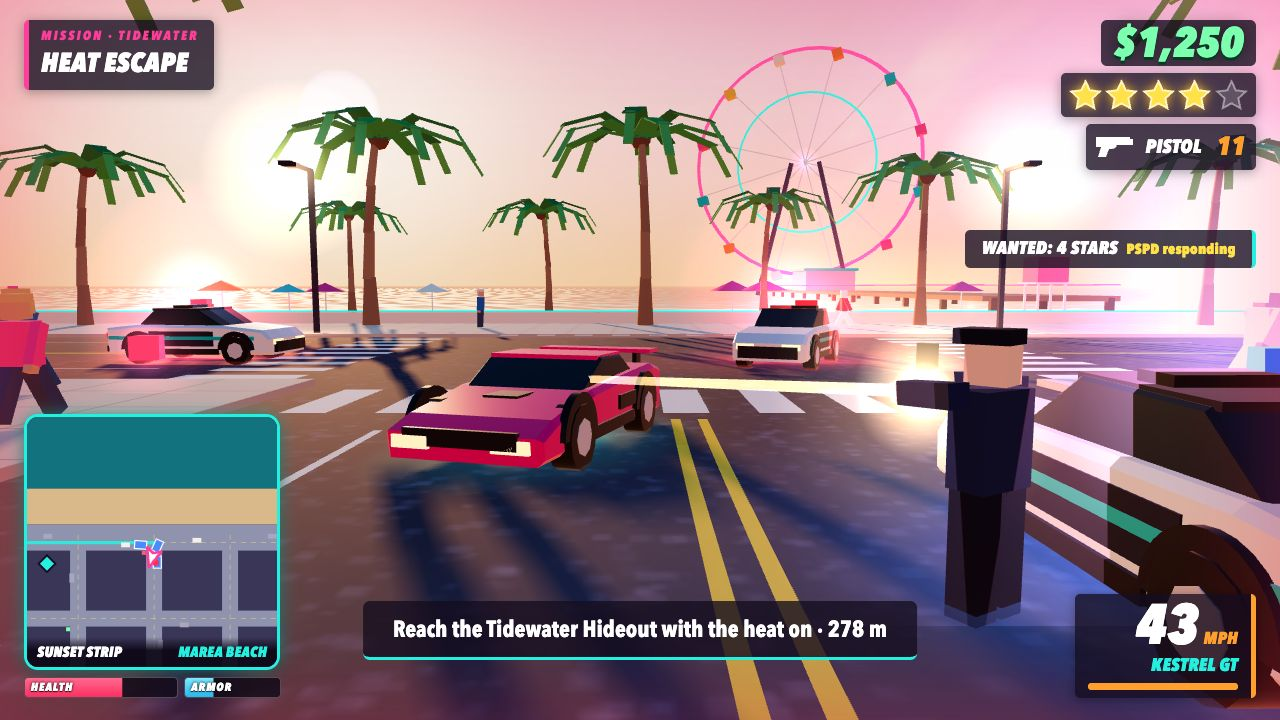
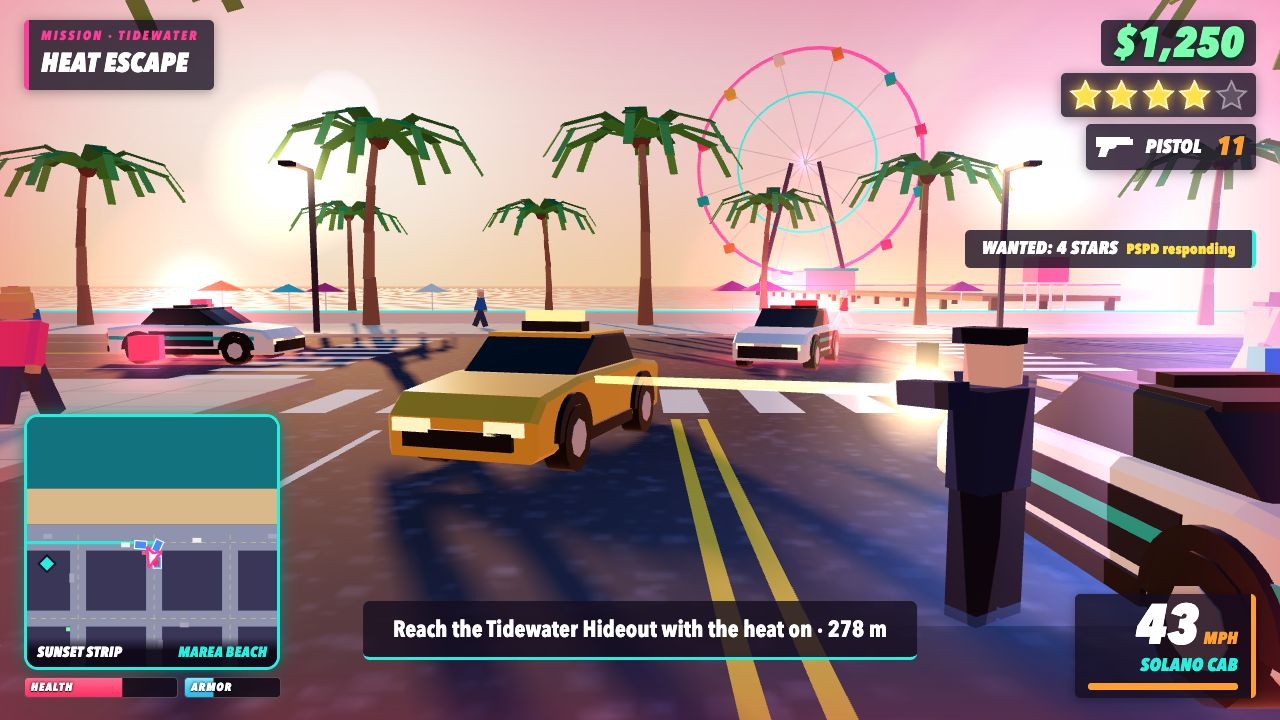
Tile round: Solano Cab getaway in Heat Escape wanted shot; payout total beside mission headline + first-clear unlock message; capture saves isolated to session storage (Codex gpt-6.2-sol via codex-teacher, recording 01a1fbb5)

diff --git a/game/src/hud.js b/game/src/hud.js
@@ -75,7 +75,11 @@ export function initHud() {
     <div class="hud-prompt hud-panel" data-el="prompt"></div>
     <div class="hud-objective" data-el="objective"></div>
     <div class="hud-arrest hud-panel" data-el="arrest">Hands up! PSPD arrest<i data-el="arrestBar"></i></div>
-    <div class="hud-banner" data-el="banner"><div class="hud-banner-title" data-el="bannerTitle"></div><div class="hud-banner-sub" data-el="bannerSub"></div></div>
+    <div class="hud-banner" data-el="banner">
+      <div class="hud-banner-title"><span data-el="bannerTitle"></span><span class="hud-banner-payout" data-el="bannerPayout" hidden></span></div>
+      <div class="hud-banner-unlock" data-el="bannerUnlock" hidden></div>
+      <div class="hud-banner-sub" data-el="bannerSub"></div>
+    </div>
     <div class="hud-crosshair" data-el="crosshair"></div>
     <div class="hud-state" data-el="state"><div class="hud-state-title" data-el="stateTitle"></div><div class="hud-state-sub" data-el="stateSub"></div></div>`;
   root.querySelectorAll('[data-el]').forEach((node) => { el[node.dataset.el] = node; });
@@ -87,7 +91,14 @@ export function initHud() {
     if (kind === 'mission' || kind === 'success' || kind === 'fail') showBanner(title, sub, kind);
     else pushFeedLine(title, sub);
   });
-  on('missionComplete', ({ title, reward }) => pushFeedLine(`+${formatMoney(reward)}`, `${title} paid`));
+  on('missionComplete', ({ title, reward, bonus, unlockedTitle }) => {
+    const base = `${title} +${formatMoney(reward - bonus)}`;
+    const breakdown = bonus ? `${base} · clean delivery +${formatMoney(bonus)}` : base;
+    showBanner('MISSION COMPLETE', breakdown, 'success', 4.5, {
+      payout: `+${formatMoney(reward)}`,
+      unlock: unlockedTitle ? `${unlockedTitle} unlocked` : '',
+    });
+  });
   on('wantedChanged', ({ level, previous }) => {
     if (level > previous) pushFeedLine(`Wanted: ${level} star${level > 1 ? 's' : ''}`, 'PSPD responding');
     else if (level === 0) pushFeedLine('You lost the heat', '');
@@ -101,10 +112,15 @@ export function setHudVisible(visible) {
 }
 
 /** A large centre banner: mission start, MISSION COMPLETE, MISSION FAILED. seconds = 0 keeps it up. */
-export function showBanner(title, sub = '', kind = 'mission', seconds = 4.5) {
+export function showBanner(title, sub = '', kind = 'mission', seconds = 4.5, { payout = '', unlock = '' } = {}) {
   el.banner.className = `hud-banner ${kind}`;
+  el.banner.classList.toggle('payout', Boolean(payout));
   el.bannerTitle.textContent = title;
   el.bannerSub.textContent = sub;
+  setText('bannerPayout', payout);
+  setText('bannerUnlock', unlock);
+  setShown('bannerPayout', Boolean(payout));
+  setShown('bannerUnlock', Boolean(unlock));
   shown['v:banner'] = true;
   el.banner.hidden = false;
   bannerTimer = seconds > 0 ? seconds : Infinity;

diff --git a/game/src/shots.js b/game/src/shots.js
@@ -5,7 +5,7 @@
 // on foot firing on the getaway at 4 stars), mission (First Score paid out at Benny's Garage), plus
 // showroom, a development view. Gunfire, prompts, banners and feed lines in a frame come from the game itself.
 import { world, setWanted, groundHeight } from './world.js';
-import { spawnVehicle, placeVehicle } from './vehicles.js';
+import { spawnVehicle, placeVehicle, VEHICLE_SPECS } from './vehicles.js';
 import { populateTrafficAround, spawnTrafficCarAt } from './traffic.js';
 import { populatePedestriansAround, spawnPedestrian } from './pedestrians.js';
 import { placePlayerOnFoot, enterVehicle } from './player.js';
@@ -151,9 +151,8 @@ function stageDrive(simulateStep) {
 
 /**
  * 3 WANTED: four stars on the Heat Escape job, on Sunset Strip by the beachfront junction. A cruiser pulls
- * up behind Mara on foot and the simulation lets its officer out; she takes the Kestrel and guns it back
- * past them, and the frame freezes on the officer's next shot at the car (fired by police.js), with a
- * second cruiser swinging off the boulevard after her.
+ * up behind Mara on foot and the simulation lets its officer out; she takes a Solano Cab back past them.
+ * The frame freezes on the officer's next shot at the cab, with two more cruisers closing in.
  */
 function stageWanted(simulateStep) {
   const p = world.player;
@@ -177,8 +176,8 @@ function stageWanted(simulateStep) {
   const isOfficer = (ped) => ped.isCop && ped.state !== 'dead';
   runUntil(simulateStep, () => world.peds.some(isOfficer), 3);
   const officer = world.peds.find(isOfficer);
-  // Mara is in the Kestrel, coming back up the Strip past the officer; more PSPD arrive off the boulevard
-  const getaway = spawnVehicle('sport', FOOT.x, FOOT.z, 0, { color: 0xff2e88 });
+  // Pass the cab's paint explicitly to keep the seeded sequence for the officer's shot.
+  const getaway = spawnVehicle('taxi', FOOT.x, FOOT.z, 0, { color: VEHICLE_SPECS.taxi.colors[0] });
   driveAtSpeed(getaway, -290.2, 1.9, Math.PI / 2 - 0.3, 19, 0);
   stagePoliceChase([
     { x: -301, z: -3.6, heading: 1.15, speed: 14 },

diff --git a/game/src/hud.css b/game/src/hud.css
@@ -69,6 +69,11 @@ kbd { display: inline-block; min-width: 1.5em; padding: 0.05em 0.4em; margin-rig
 .hud-banner-title { font-size: 5.6em; line-height: 1; color: var(--gold); text-shadow: 0 0.05em 0 #7a4b00, 0 0 0.6em rgba(255, 190, 40, 0.6); }
 .hud-banner-sub { font-size: 2.5em; margin-top: 0.15em; font-style: normal; text-transform: none; letter-spacing: 0; }
 .hud-banner.success .hud-banner-title { color: #7dffb0; text-shadow: 0 0.05em 0 #06512f, 0 0 0.6em rgba(60, 255, 150, 0.6); }
+.hud-banner.payout { width: max-content; max-width: calc(100% - 2em); box-sizing: border-box; padding: 0.65em min(3.4em, 4vw); white-space: normal; }
+.hud-banner.payout .hud-banner-title { display: flex; flex-wrap: wrap; justify-content: center; align-items: baseline; gap: 0 0.36em; font-size: min(5.6em, 4.8vw); }
+.hud-banner-payout { color: var(--gold); text-shadow: 0 0.05em 0 #7a4b00; white-space: nowrap; }
+.hud-banner-unlock { margin-top: 0.08em; font-size: min(3.6em, 5vw); line-height: 1.1; font-style: normal; text-transform: none; letter-spacing: 0; }
+.hud-banner.payout .hud-banner-sub { font-size: min(1.8em, 3.8vw); }
 .hud-banner.fail .hud-banner-title { color: #ff5a6e; text-shadow: 0 0.05em 0 #5a0a16, 0 0 0.6em rgba(255, 60, 90, 0.6); }
 .hud-banner.mission .hud-banner-title { color: #fff; }
 @keyframes banner-in { from { opacity: 0; transform: translateX(-50%) scale(1.25); } }

diff --git a/game/src/missions.js b/game/src/missions.js
@@ -217,14 +217,18 @@ export function completeMission() {
   if (def.id === 'firstScore' && missionCar && !missionCar.dead && missionCar.hp >= missionCar.spec.hp * 0.7) bonus = CLEAN_DELIVERY_BONUS;
   const total = def.reward + bonus;
   addMoney(total);
-  if (!m.done.includes(def.id)) m.done.push(def.id);
+  let unlockedTitle = '';
+  if (!m.done.includes(def.id)) {
+    const advancesStory = nextOfferedMissionId() === def.id;
+    m.done.push(def.id);
+    const nextId = nextOfferedMissionId();
+    if (advancesStory && !m.done.includes(nextId)) unlockedTitle = MISSIONS[nextId].title;
+  }
   releaseMissionCar(false);
   m.phase = 'complete';
   setObjective(def.id === 'firstScore' ? 'Benny pays cash. Nice driving.' : 'Tidewater owes you one. The heat is gone.', -1);
   clearMarker();
-  emit('missionComplete', { id: def.id, title: def.title, reward: total, bonus });
-  const sub = bonus ? `${def.title}  +$${def.reward}  · clean delivery +$${bonus}` : `${def.title}  +$${total}`;
-  toast('MISSION COMPLETE', sub, 'success');
+  emit('missionComplete', { id: def.id, title: def.title, reward: total, bonus, unlockedTitle });
   reofferIn = REOFFER_DELAY;
 }
 

diff --git a/game/src/save.js b/game/src/save.js
@@ -4,9 +4,9 @@
 
 const SAVE_KEY = 'neontide.save.v1';
 
-function storage() {
+function storage(capture = false) {
   try {
-    return typeof localStorage !== 'undefined' ? localStorage : null;
+    return globalThis[capture ? 'sessionStorage' : 'localStorage'] ?? null;
   } catch {
     return null;
   }
@@ -35,10 +35,10 @@ export function loadSavedGame() {
   }
 }
 
-/** Store the current cash and completed mission ids. Returns true when it was written. */
-export function writeSavedGame({ money = 0, missionsDone = [] } = {}) {
+/** Store cash and completed jobs. Screenshot saves last only for the capture tab. */
+export function writeSavedGame({ money = 0, missionsDone = [] } = {}, { capture = false } = {}) {
   try {
-    const store = storage();
+    const store = storage(capture);
     if (!store) return false;
     const record = {
       money: Number.isFinite(money) ? Math.max(0, Math.round(money)) : 0,

diff --git a/game/src/main.js b/game/src/main.js
@@ -72,7 +72,7 @@ function updateTitleCamera() {
 /** Write the save; announce it in the feed only when asked and only when the write succeeded. */
 function saveProgress(announce = false) {
   const p = world.player;
-  const written = writeSavedGame({ money: p.money, missionsDone: world.mission.done });
+  const written = writeSavedGame({ money: p.money, missionsDone: world.mission.done }, { capture: world.mode === 'shot' });
   savedMoney = p.money;
   if (written && announce === true) pushFeedLine('Game saved', `${world.mission.done.length} of 2 jobs done`);
 }

diff --git a/BUILD-STATUS.md b/BUILD-STATUS.md
@@ -66,6 +66,101 @@ game code (fix round).
 
 All four are under the 262,144-byte cap. `game/` holds 25 files, 942,294 bytes (caps: 993 files, 48 MiB).
 
+## Tile round (2026-11-21)
+
+- Heat Escape uses the yellow Solano Cab, with the same staged officer shot and camera.
+- The First Score banner shows the earned payout beside the headline and names Heat Escape
+  when the completion opens it. The breakdown sits below, and the feed confirms a successful
+  save. Shot mode writes to tab-local session storage so the normal game's save stays intact.
+- Capture is pending. The record sandbox returned `EPERM` when `node serve.ts` tried to bind
+  port 8080, and headless Chrome exited before opening a page. The table above describes the
+  existing JPEGs.
+- A Node replay with rendering and storage shims reached all four staged states. The wanted
+  frame had four stars, three cruisers, one firing officer and one live tracer. First Score
+  paid $1,000 clean and $750 damaged, offered Heat Escape after the first clear, and omitted
+  the unlock on replay. The capture save left an existing play save intact. Both 253 px
+  visual checks still need a rendered frame.
+
+### Capture and review
+
+Outside the record sandbox, run `node serve.ts` from the repository root. In a second shell at
+the same root, run the following with Playwright, Google Chrome and Python's Pillow installed.
+If Playwright is outside Node's module path, set `PLAYWRIGHT_MODULE` to its installed module
+directory.
+
+```sh
+export TILE_CAPTURE_DIR="$(mktemp -d)"
+node <<'NODE'
+const assert = require('node:assert/strict');
+const { chromium } = require(process.env.PLAYWRIGHT_MODULE || 'playwright');
+const { statSync } = require('node:fs');
+const { join } = require('node:path');
+const shots = require('./shots.json');
+const origin = 'http://127.0.0.1:8080';
+(async () => {
+  const browser = await chromium.launch({ channel: 'chrome', headless: true });
+  try {
+    const context = await browser.newContext({
+      viewport: { width: 1280, height: 720 }, deviceScaleFactor: 1,
+    });
+    for (const [index, shot] of shots.entries()) {
+      const page = await context.newPage();
+      const errors = [];
+      const external = [];
+      page.on('pageerror', error => errors.push(error.message));
+      page.on('console', message => {
+        if (message.type() === 'error') errors.push(message.text());
+      });
+      await page.route('**/*', route => {
+        const url = route.request().url();
+        if (url.startsWith(origin + '/')) return route.continue();
+        external.push(url);
+        return route.abort();
+      });
+      const response = await page.goto(origin + '/' + shot.query);
+      assert.ok(response?.ok());
+      await page.waitForFunction(() => window.__shotReady === true);
+      if (index >= 2) {
+        const path = join(process.env.TILE_CAPTURE_DIR, shot.name);
+        await page.screenshot({ path, type: 'jpeg', quality: 80, animations: 'disabled' });
+        assert.ok(statSync(path).size <= 262144);
+      }
+      assert.deepEqual(errors, []);
+      assert.deepEqual(external, []);
+      console.log(shot.name, 'ready, 0 errors, 0 external requests');
+      await page.close();
+    }
+  } finally {
+    await browser.close();
+  }
+})().catch(error => { console.error(error); process.exitCode = 1; });
+NODE
+python3 - <<'PY'
+from os import environ
+from pathlib import Path
+from PIL import Image
+
+out = Path(environ["TILE_CAPTURE_DIR"])
+sheet = Image.new("RGB", (768, 578), "#14101d")
+for path, size, pos in [
+    (Path("screenshots/1-cover.jpg"), (768, 432), (0, 0)),
+    (Path("screenshots/2-drive.jpg"), (253, 142), (0, 436)),
+    (out / "3-wanted.jpg", (253, 142), (257, 436)),
+    (out / "4-mission.jpg", (253, 142), (515, 436)),
+]:
+    with Image.open(path) as frame:
+        sheet.paste(frame.resize(size, Image.Resampling.LANCZOS), pos)
+sheet.save(out / "judge-sheet.png")
+print(out / "judge-sheet.png")
+PY
+```
+
+Review the sheet at 100%. Check for the officer, tracer, roof light, four stars and Ferris
+wheel in the wanted tile. Check that the completion headline and payout read together, the
+Heat Escape unlock is legible, and the breakdown and save line stay secondary in the mission
+tile. When both pass, copy `"$TILE_CAPTURE_DIR/3-wanted.jpg"` and
+`"$TILE_CAPTURE_DIR/4-mission.jpg"` into `screenshots/`.
+
 ## Fix round (after the independent review)
 
 A review of commit `59c5a7f` asked for four changes to what the screenshots show. All four frames
